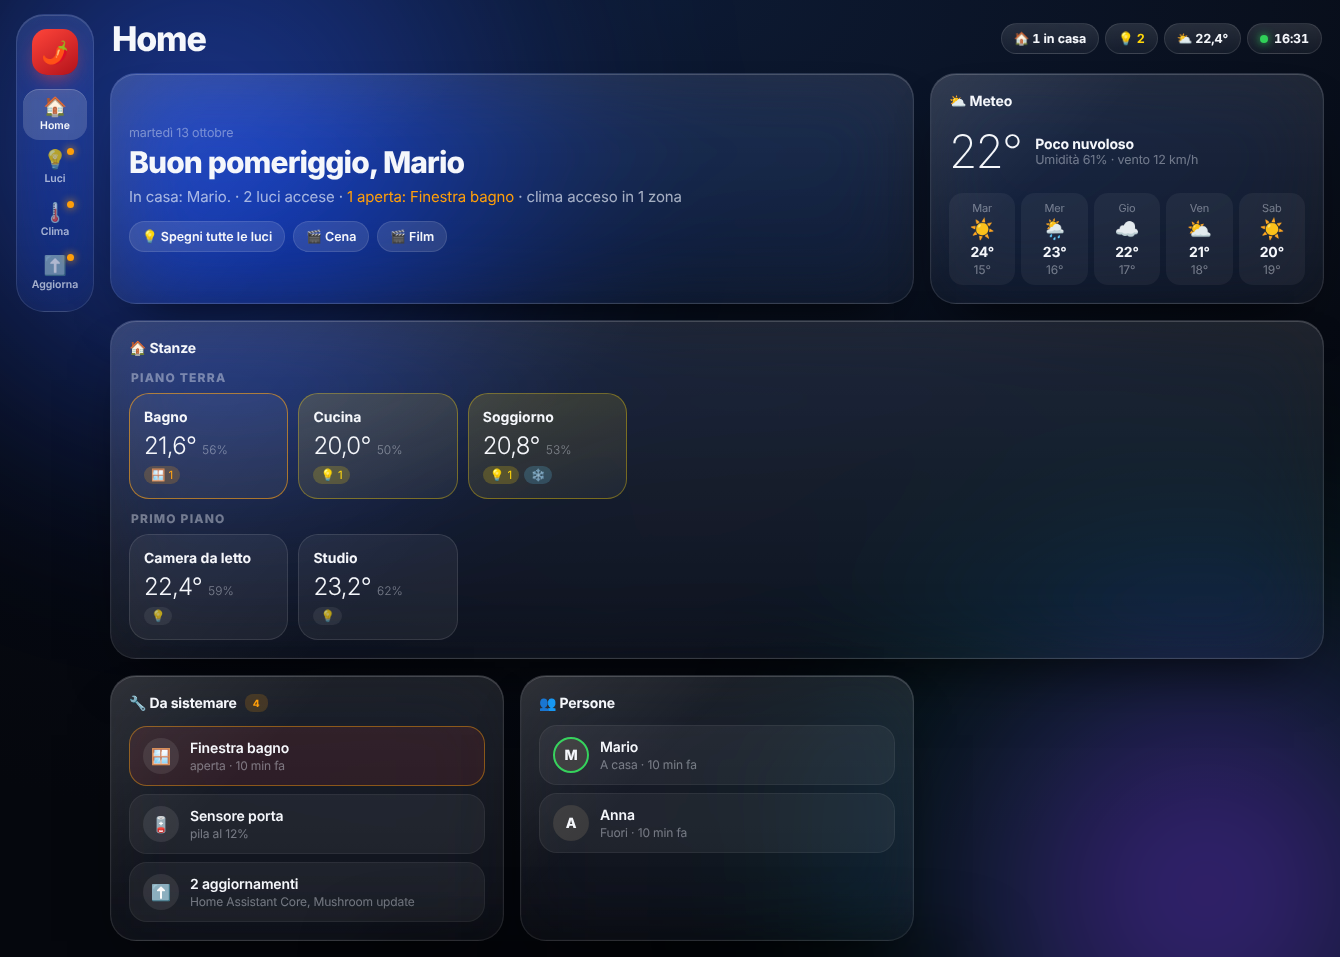
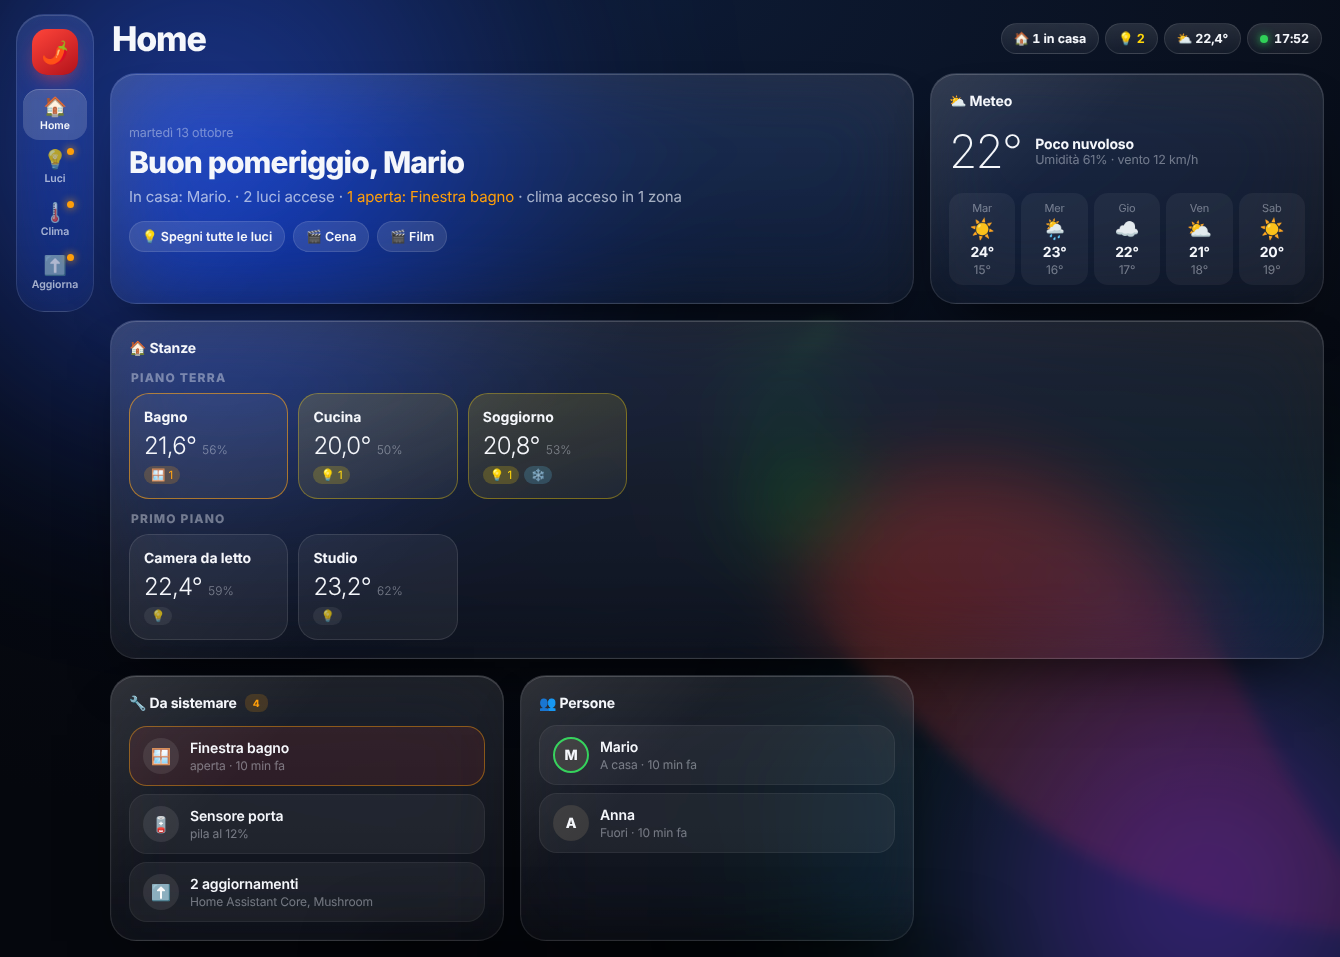
Sfondo: peperoncino molto sfumato dietro il vetro
Claude-Session: https://claude.ai/code/session_01EaUZ5Zvy2k59B92nQm4H5b

Changed region(s): [[0.5813, 0.4545, 0.9791, 0.9394], [0.9485, 0.0303, 0.9791, 0.0606], [0.2754, 0.9394, 0.306, 0.9697]]

diff --git a/custom_components/nduja_dashboard/frontend/css/nduja.css b/custom_components/nduja_dashboard/frontend/css/nduja.css
@@ -59,3 +59,9 @@
 .nt69 h4{margin:14px 0 4px;color:var(--tx);font-size:15px}.nt69 ul{margin:4px 0;padding-left:20px}.nt69 code{font-size:12px;background:rgba(255,255,255,.08);padding:1px 4px;border-radius:4px}
 .nt69 a{color:#64d2ff}
 @media (max-width:760px){.up69{grid-template-columns:28px minmax(0,1fr)}.up69 .ac{grid-column:1/-1;justify-content:flex-start}}
+/* peperoncino molto sfumato sullo sfondo, dietro il vetro */
+.bg .chili{position:absolute;right:-8vmax;bottom:-10vmax;width:64vmax;height:64vmax;background:url(../img/chili.svg) center/contain no-repeat;
+  opacity:.2;filter:blur(9px) saturate(1.1);transform:rotate(-14deg);pointer-events:none;animation:chili1 40s ease-in-out infinite alternate}
+@keyframes chili1{to{transform:rotate(-8deg) translate(-2vmax,-1.5vmax) scale(1.04)}}
+@media (max-width:760px){.bg .chili{width:90vmax;height:90vmax;right:-30vmax;bottom:-18vmax;opacity:.15}}
+@media (prefers-reduced-motion:reduce){.bg .chili{animation:none}}

diff --git a/custom_components/nduja_dashboard/frontend/index.html b/custom_components/nduja_dashboard/frontend/index.html
@@ -9,7 +9,7 @@
 <link rel="stylesheet" href="css/nduja.css">
 </head>
 <body>
-<div class="bg"></div>
+<div class="bg"><div class="chili"></div></div>
 <div class="shell">
   <nav class="rail" id="rail"></nav>
   <div class="col">
